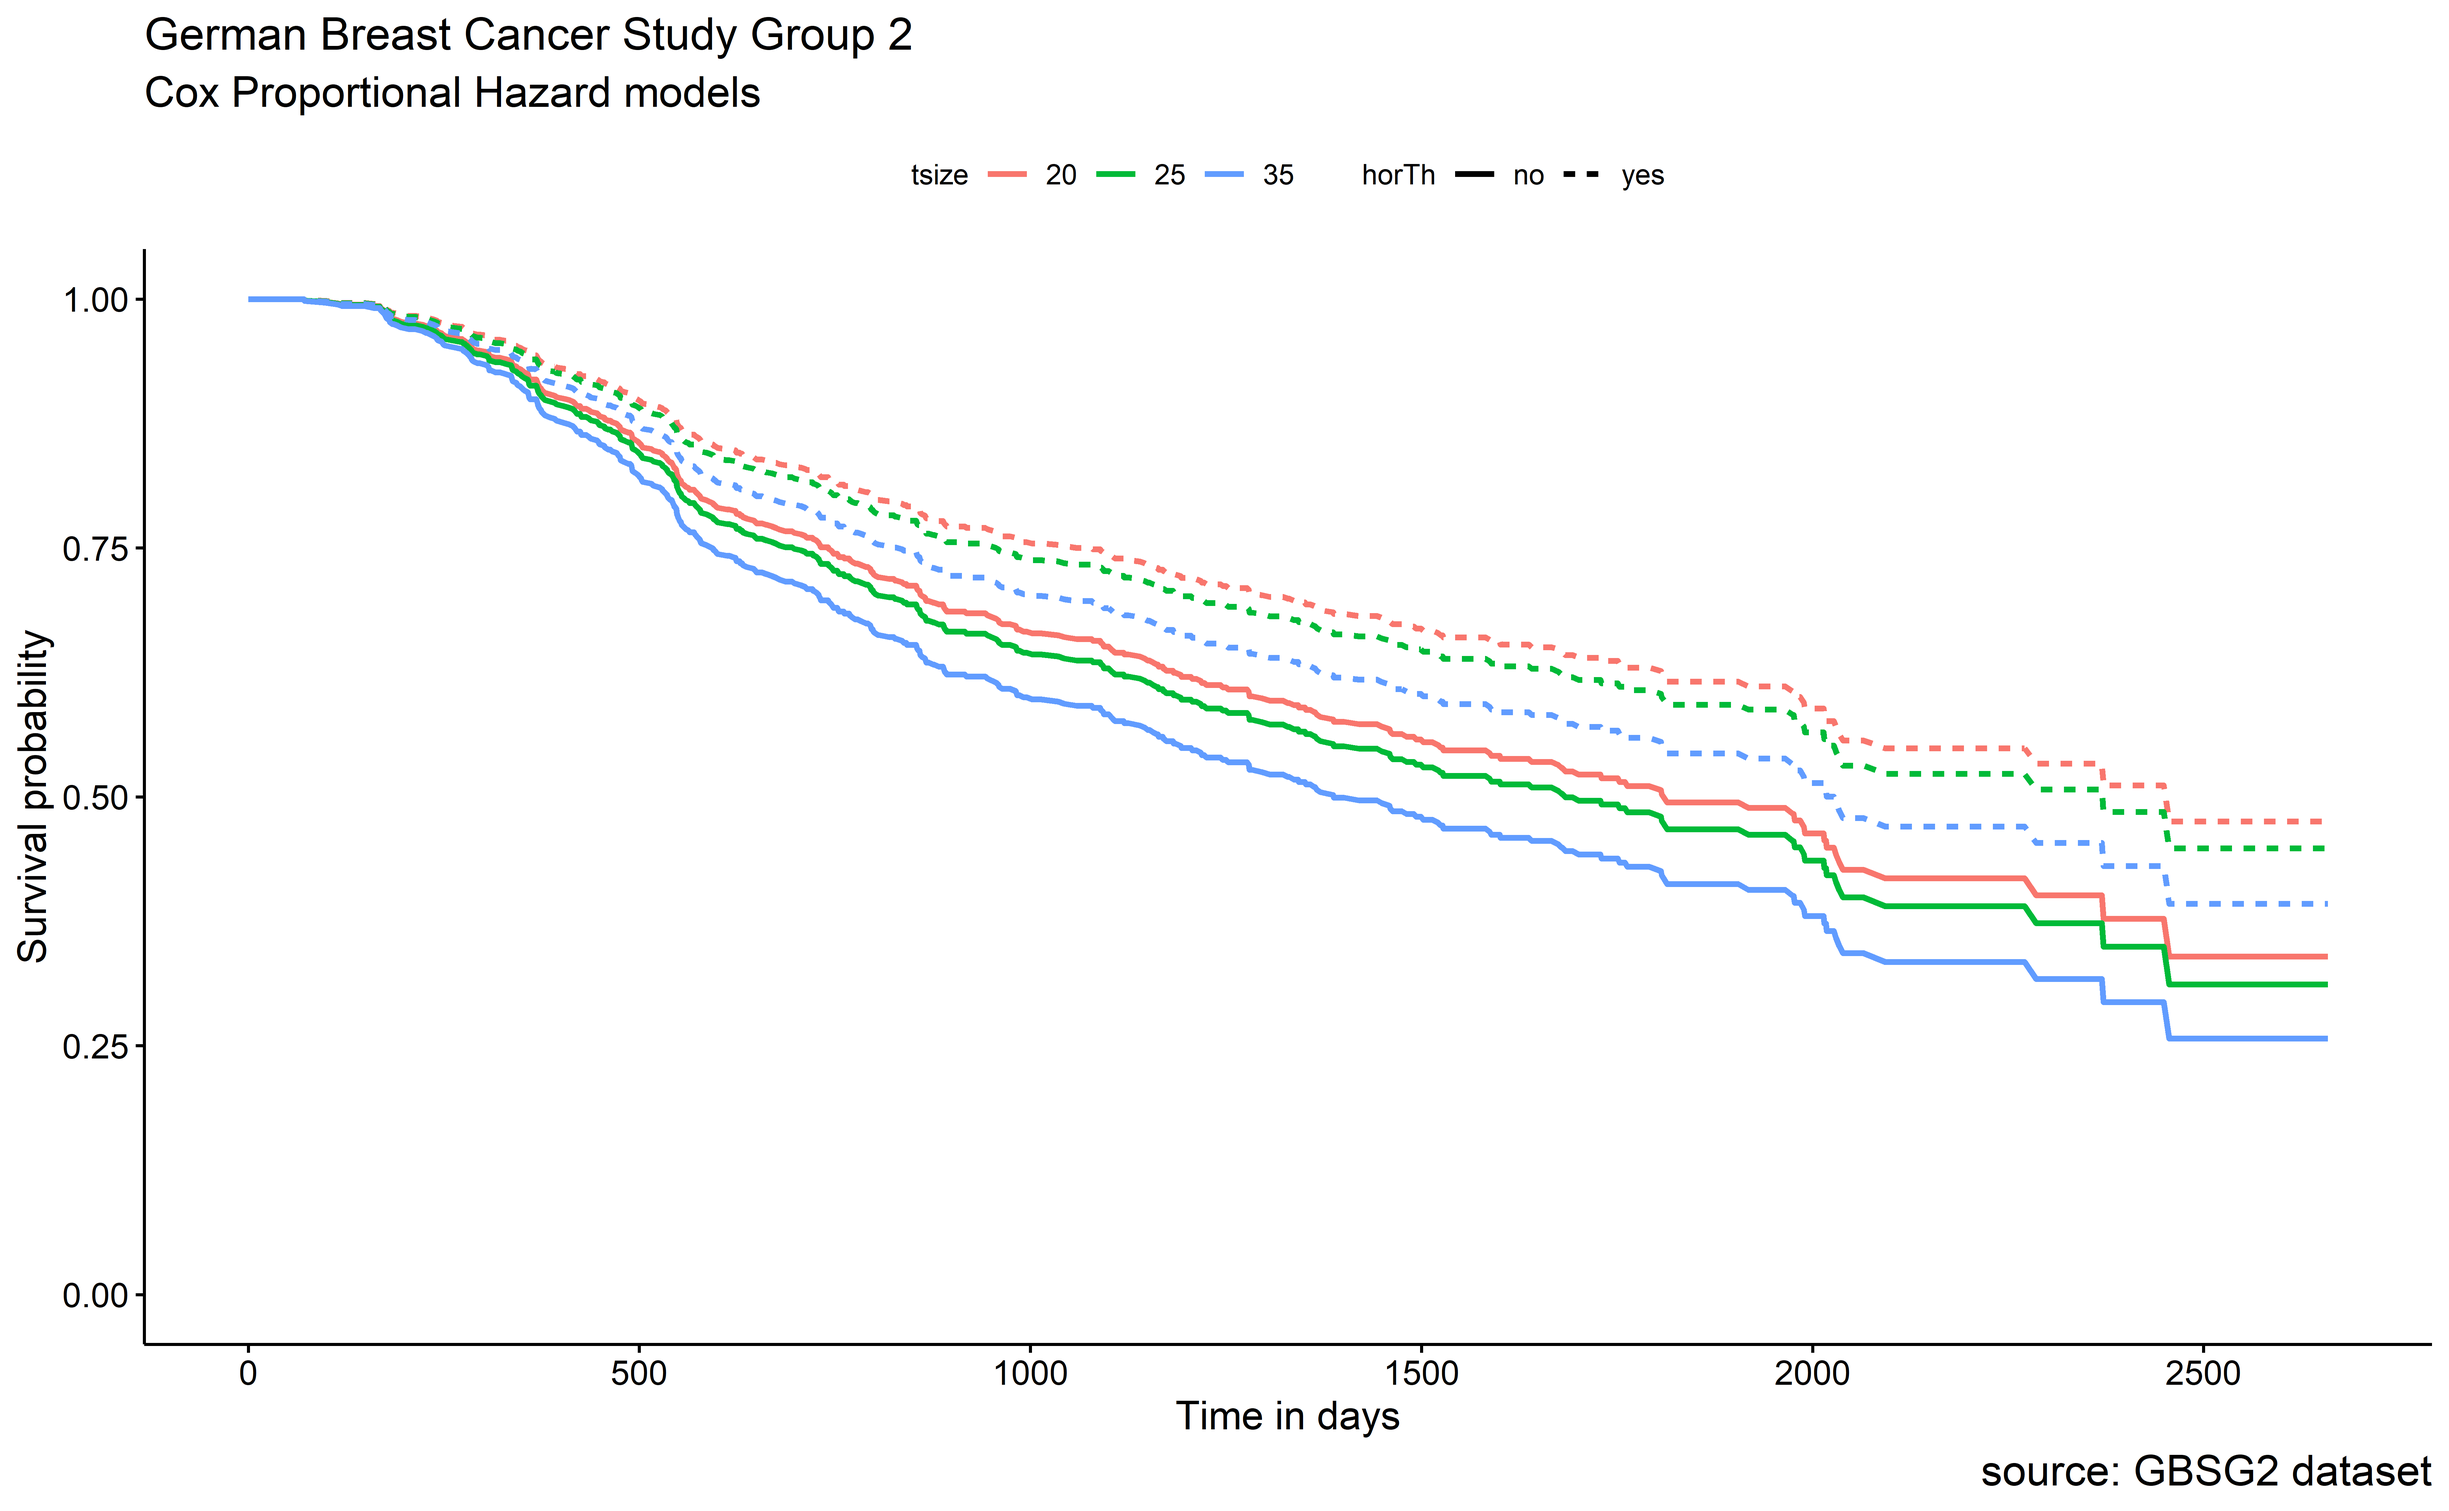
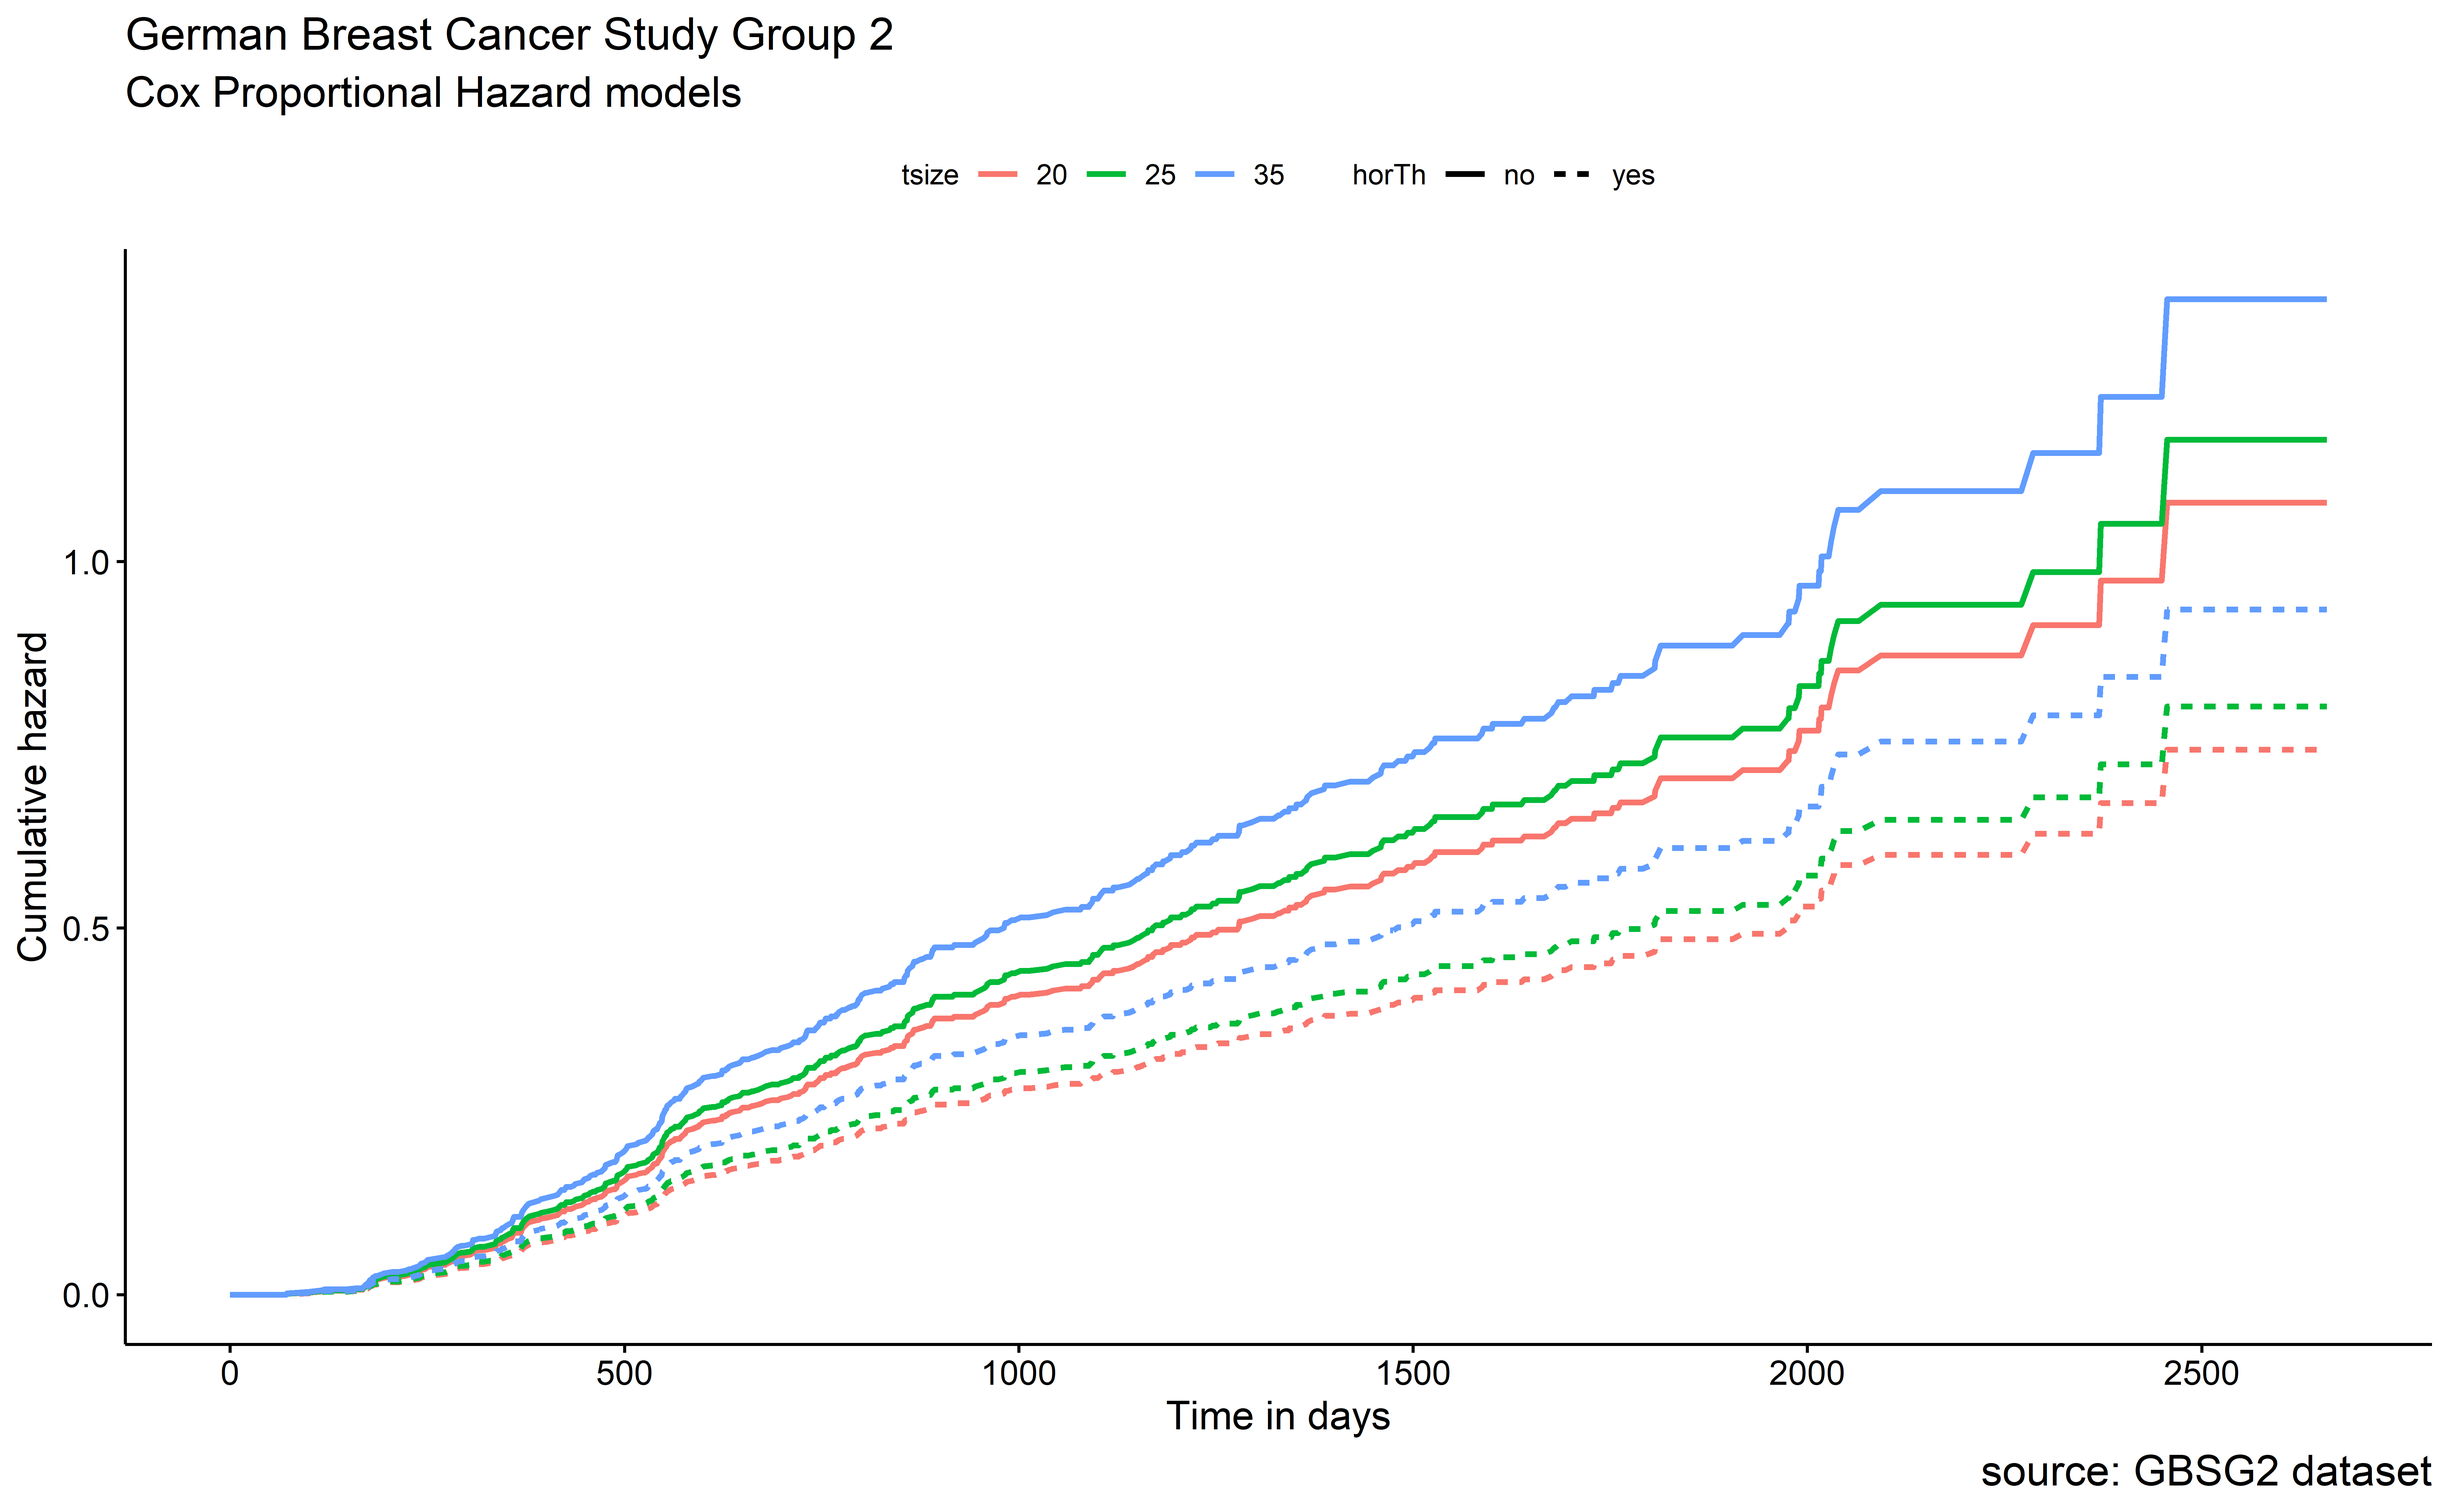
Build site.

diff --git a/docs/Survival.html b/docs/Survival.html
@@ -454,16 +454,16 @@ This reproducible <a href="http://rmarkdown.rstudio.com">R Markdown</a> analysis
 <div class="panel panel-default">
 <div class="panel-heading">
 <p class="panel-title">
-<a data-toggle="collapse" data-parent="#workflowr-checks" href="#strongRepositoryversionstrongahrefhttpsgithubcomopus1993myTidyTuesdaytree4894c528a96877704574ac10c7ab993a09c310a8targetblank4894c52a"> <span class="glyphicon glyphicon-ok text-success" aria-hidden="true"></span> <strong>Repository version:</strong> <a href="https://github.com/opus1993/myTidyTuesday/tree/4894c528a96877704574ac10c7ab993a09c310a8" target="_blank">4894c52</a> </a>
+<a data-toggle="collapse" data-parent="#workflowr-checks" href="#strongRepositoryversionstrongahrefhttpsgithubcomopus1993myTidyTuesdaytree987243dfbf436bbdc925aba1c630fc2f789d0de7targetblank987243da"> <span class="glyphicon glyphicon-ok text-success" aria-hidden="true"></span> <strong>Repository version:</strong> <a href="https://github.com/opus1993/myTidyTuesday/tree/987243dfbf436bbdc925aba1c630fc2f789d0de7" target="_blank">987243d</a> </a>
 </p>
 </div>
[2 lines of base64/hex data omitted]
 <div class="panel-body">
 <p>
 Great! You are using Git for version control. Tracking code development and connecting the code version to the results is critical for reproducibility.
 </p>
 <p>
-The results in this page were generated with repository version <a href="https://github.com/opus1993/myTidyTuesday/tree/4894c528a96877704574ac10c7ab993a09c310a8" target="_blank">4894c52</a>. See the <em>Past versions</em> tab to see a history of the changes made to the R Markdown and HTML files.
+The results in this page were generated with repository version <a href="https://github.com/opus1993/myTidyTuesday/tree/987243dfbf436bbdc925aba1c630fc2f789d0de7" target="_blank">987243d</a>. See the <em>Past versions</em> tab to see a history of the changes made to the R Markdown and HTML files.
 </p>
 <p>
 Note that you need to be careful to ensure that all relevant files for the analysis have been committed to Git prior to generating the results (you can use <code>wflow_publish</code> or <code>wflow_git_commit</code>). workflowr only checks the R Markdown file, but you know if there are other scripts or data files that it depends on. Below is the status of the Git repository when the results were generated:
@@ -518,6 +518,40 @@ Message
 </tr>
 </thead>
 <tbody>
+<tr>
+<td>
+Rmd
+</td>
+<td>
+<a href="https://github.com/opus1993/myTidyTuesday/blob/987243dfbf436bbdc925aba1c630fc2f789d0de7/analysis/Survival.Rmd" target="_blank">987243d</a>
+</td>
+<td>
+opus1993
+</td>
+<td>
+2020-11-30
+</td>
+<td>
+wflow_publish(“analysis/Survival.Rmd”)
+</td>
+</tr>
+<tr>
+<td>
+html
+</td>
+<td>
+<a href="https://rawcdn.githack.com/opus1993/myTidyTuesday/1a7a854099c2a1e46f27f5e3edb6c86f082131ef/docs/Survival.html" target="_blank">1a7a854</a>
+</td>
+<td>
+opus1993
+</td>
+<td>
+2020-11-30
+</td>
+<td>
+Build site.
+</td>
+</tr>
 <tr>
 <td>
 Rmd
@@ -898,8 +932,12 @@ surv_cxmod0 &lt;- surv_summary(cxsf)
 surv_cxmod &lt;- cbind(surv_cxmod0, newdat[surv_cxmod0$strata, ])
 
 ggsurvplot_df(surv_cxmod,
+  fun = &quot;cumhaz&quot;,
   surv.geom = geom_line,
-  linetype = &quot;horTh&quot;, color = &quot;tsize&quot;, legend.title = NULL, censor = FALSE
+  linetype = &quot;horTh&quot;,
+  color = &quot;tsize&quot;,
+  legend.title = NULL,
+  censor = FALSE
 ) +
   labs(
     title = &quot;German Breast Cancer Study Group 2&quot;,
@@ -909,7 +947,7 @@ ggsurvplot_df(surv_cxmod,
   )</code></pre>
 <p><img src="figure/Survival.Rmd/unnamed-chunk-11-1.png" width="3600" style="display: block; margin: auto;" /></p>
 <p>The quantity of interest from a Cox regression model is a hazard ratio (HR). The HR represents the ratio of hazards between two groups at any particular point in time. The HR is interpreted as the instantaneous rate of occurrence of the event of interest in those who are still at risk for the event. It is not a risk, though it is commonly interpreted as such.</p>
-<p>If you have a regression parameter <span class="math display">\[\beta\]</span> (from column estimate in our coxph) then HR = <span class="math display">\[e^\beta\]</span>. Thus, a HR &lt; 1 indicates reduced hazard of death whereas a HR &gt; 1 indicates an increased hazard of death.</p>
+<p>If you have a regression parameter <span class="math inline">\(\beta\)</span> (from column estimate in our coxph) then HR = <span class="math inline">\(e^\beta\)</span>. Thus, a HR &lt; 1 indicates reduced hazard of death whereas a HR &gt; 1 indicates an increased hazard of death.</p>
 <hr />
 <p>Additional resources</p>
 <p>The <code>survival</code> package also includes robust methods for adjusting survival models for confounding variables, multi-state models (i.e. healthy-illness-death), population contrasts, competing risks, and validation. Much more material can be found in the Vignettes.</p>
